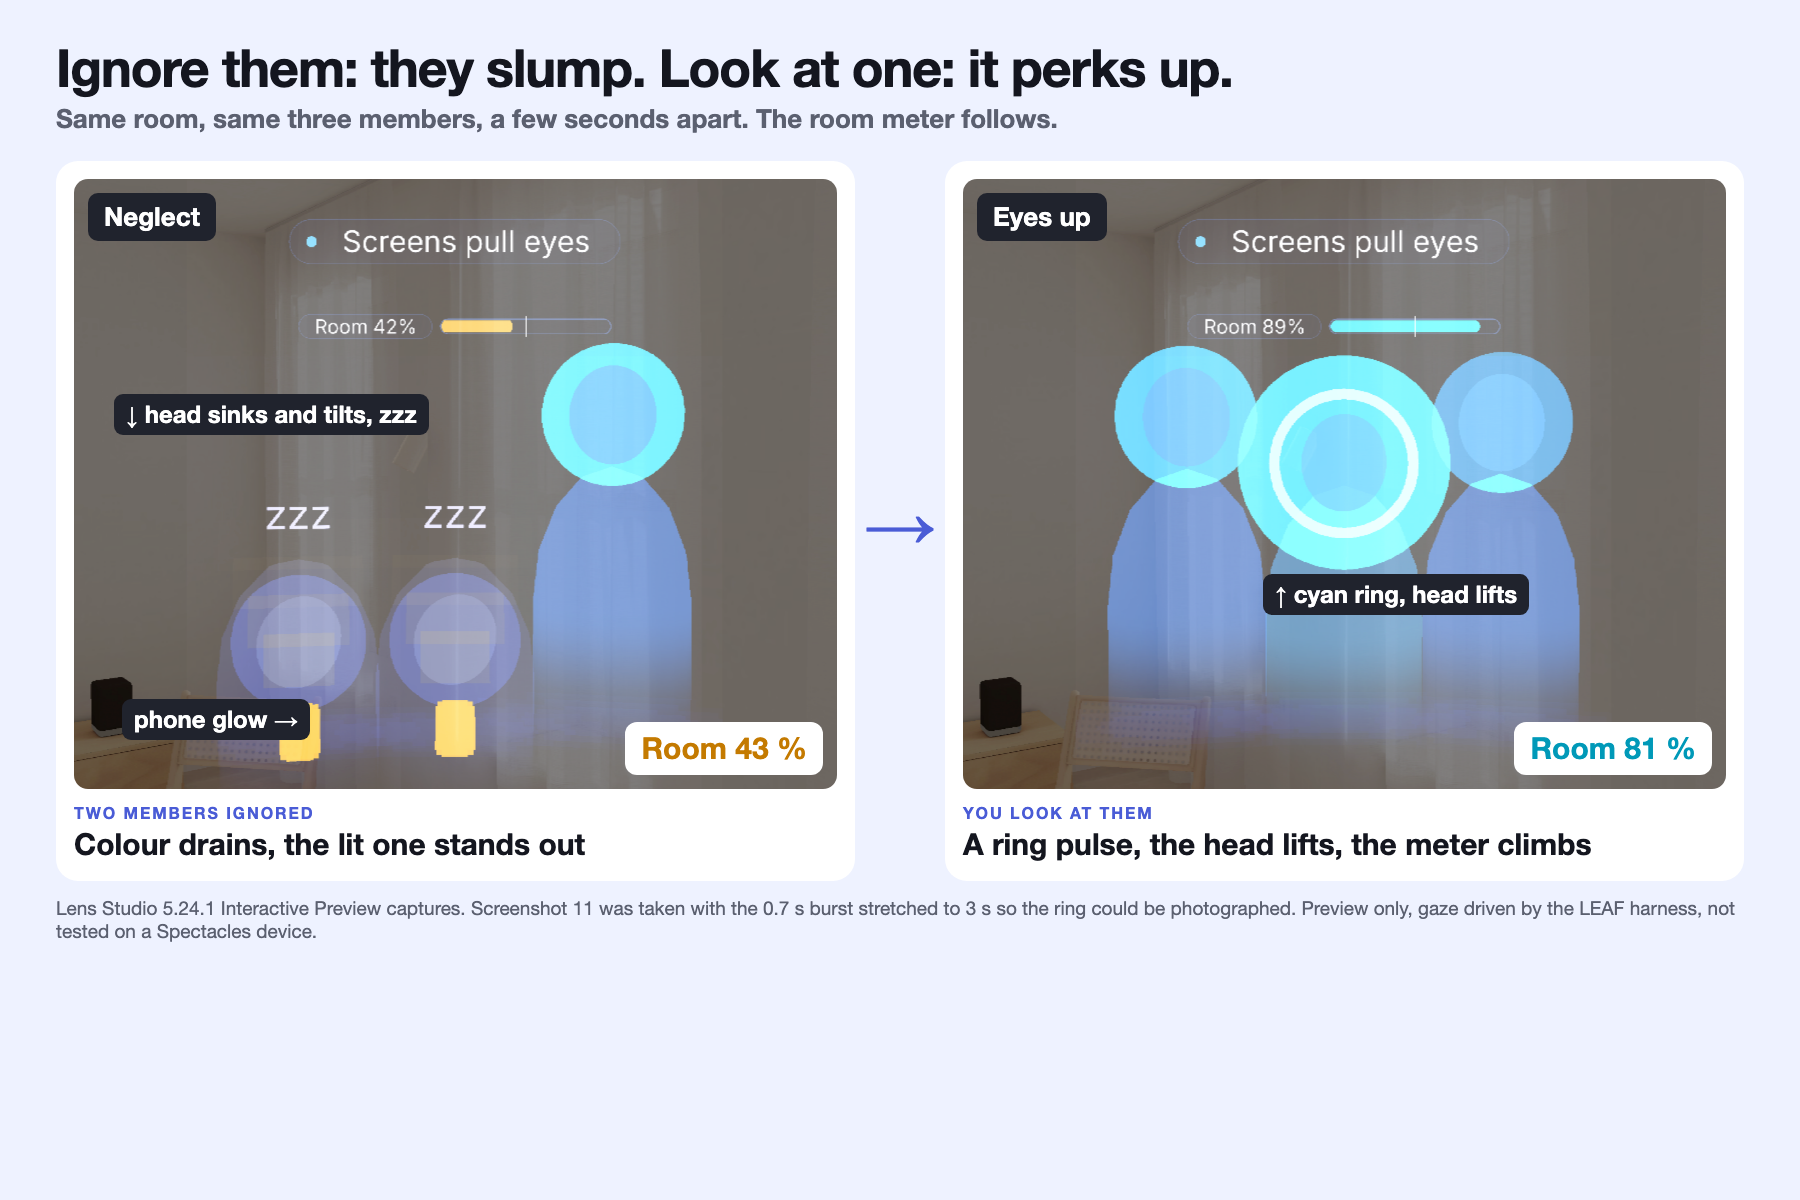
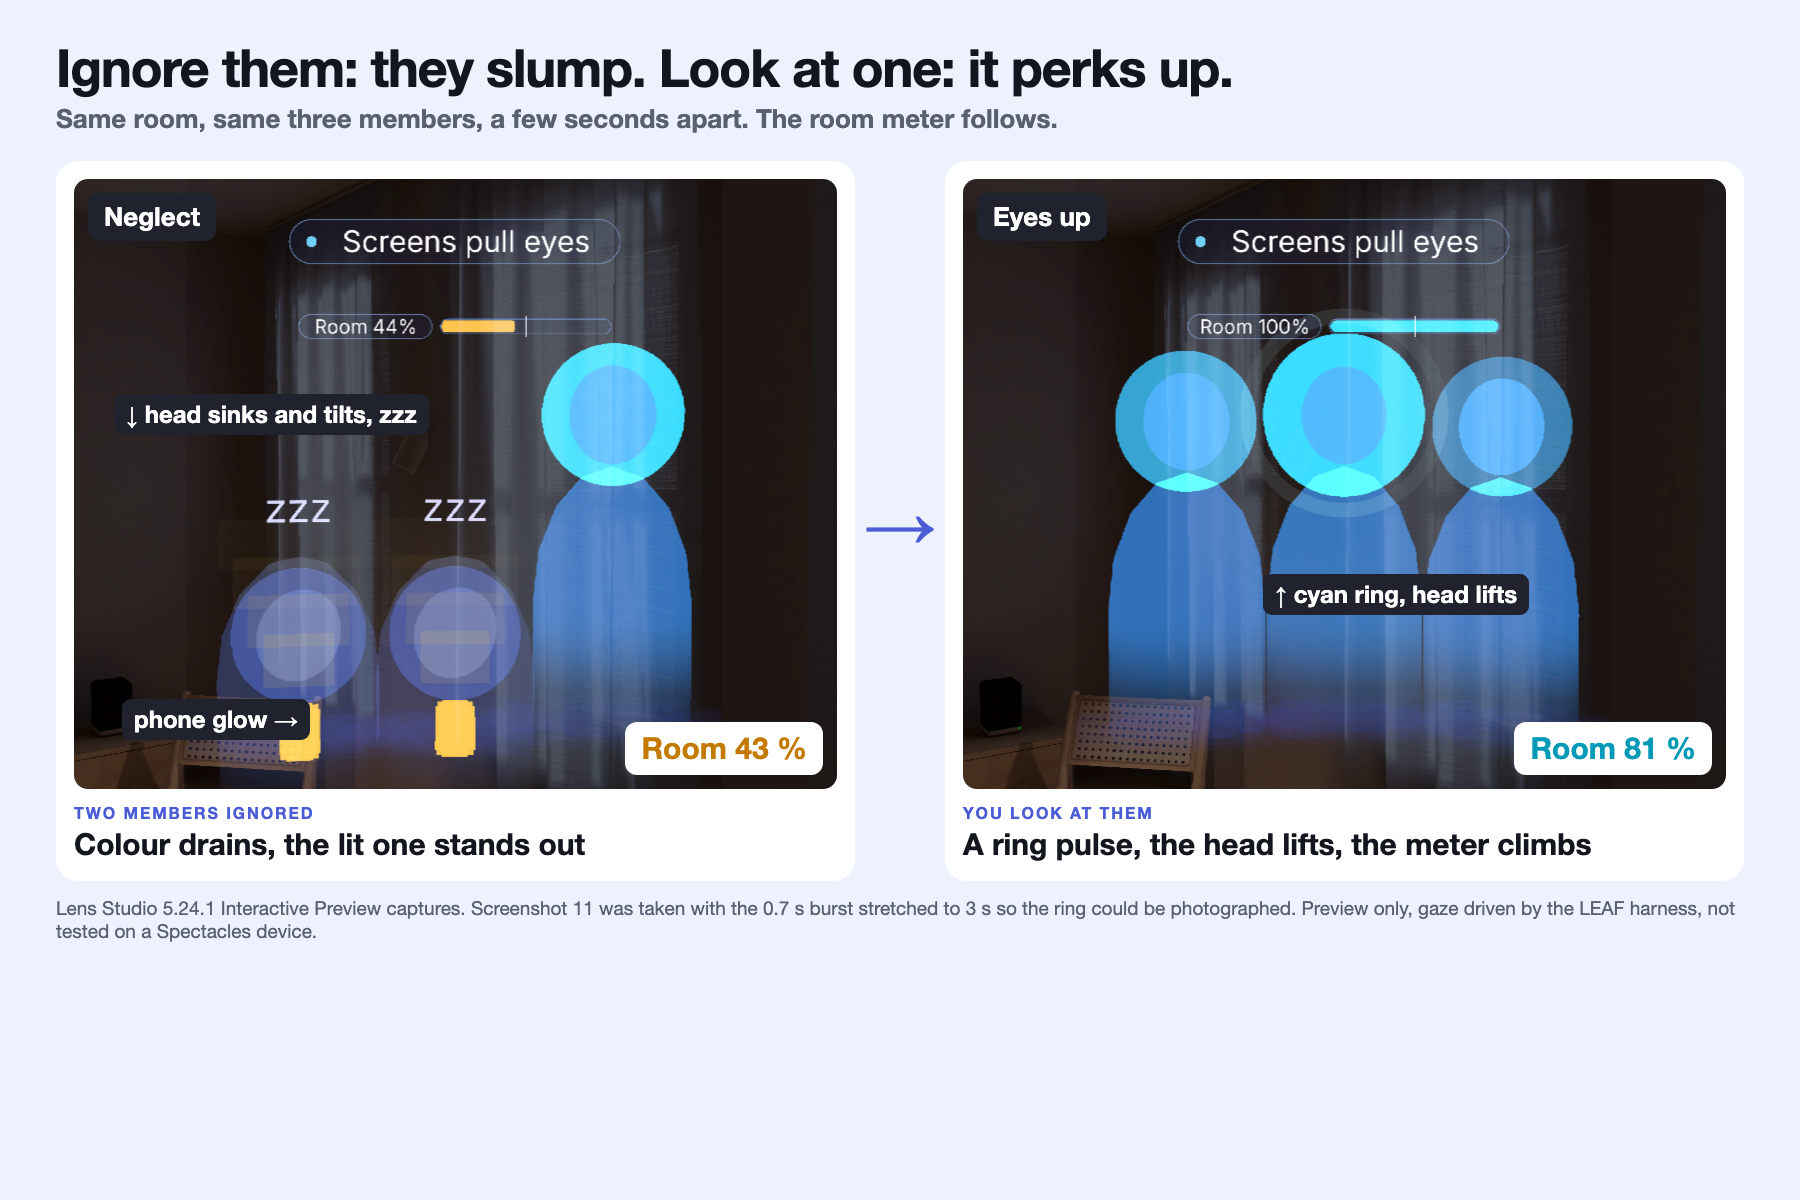
feat: design cycle 2 E1 - luminous dark panel material (#070D22 88 %, #9CC4FF stroke), cyan selected state, 35 % dimmer, Evening Room captures, 183 tests, 10 LEAF

diff --git a/Assets/Scripts/EyesUpUI.ts b/Assets/Scripts/EyesUpUI.ts
@@ -107,17 +107,26 @@ const ICONS: Record<IconName, Texture> = {
  * stroke at 35 %, continuous rounded corners. Setup, cue card, pill, podium, Summary and the room
  * meter pill all use it. The previous blue-grey fill washed out to lavender on the additive display.
  */
-export const PANEL_FILL = new vec4(0x0b / 255, 0x12 / 255, 0x30 / 255, 0.78);
-export const PANEL_STROKE = new vec4(0x7f / 255, 0xb0 / 255, 1, 0.35);
+export const PANEL_FILL = new vec4(0x07 / 255, 0x0d / 255, 0x22 / 255, 0.88);
+export const PANEL_STROKE = new vec4(0x9c / 255, 0xc4 / 255, 1, 0.55);
 export const PANEL_RADIUS_CM = 1.6;
-export const PANEL_STROKE_CM = 0.18;
+export const PANEL_STROKE_CM = 0.24;
+/** Cycle 2 (E1): the 35 % black dimmer behind every panel and the audience (Preview only; additive glasses draw nothing for black). */
+export const DIMMER_COLOR = new vec4(0, 0, 0, 0.35);
+const BUTTON_STROKE_CM = 0.18;
+const DIMMER_MARGIN_CM = 12;
 const SURFACE_FILL = PANEL_FILL;
 const SURFACE_BORDER = PANEL_STROKE;
 /** Button faces: brighter blue-grey than the surface, with a light frame. */
-const BUTTON_FACE = new vec4(0.12, 0.2, 0.44, 0.95);
+const BUTTON_FACE = new vec4(0x10 / 255, 0x1a / 255, 0x3a / 255, 0.95);
 const BUTTON_FACE_HOVER = new vec4(0.2, 0.32, 0.62, 1);
 const BUTTON_FACE_PRESS = new vec4(0.3, 0.46, 0.82, 1);
-const BUTTON_BORDER = new vec4(0.5, 0.69, 1, 0.85);
+const BUTTON_BORDER = new vec4(0x5e / 255, 0x86 / 255, 0xd6 / 255, 1);
+/** Cycle 2 (E1): selected segment = deep teal face, cyan 2 px stroke, cyan glow. */
+const SELECTED_FACE = new vec4(0x12 / 255, 0x32 / 255, 0x4f / 255, 0.97);
+const SELECTED_HOVER = new vec4(0.1, 0.27, 0.42, 1);
+const SELECTED_PRESS = new vec4(0.14, 0.38, 0.56, 1);
+const SELECTED_BORDER = new vec4(0x5f / 255, 0xd4 / 255, 1, 1);
 /** Primary action (Start / Finish / Again): cyan-teal face. */
 const PRIMARY_FACE = new vec4(0.18, 0.5, 0.62, 0.95);
 const PRIMARY_FACE_HOVER = new vec4(0.25, 0.64, 0.78, 1);
@@ -284,10 +293,10 @@ const MINT_BORDER = new vec4(0.5, 1.0, 0.8, 0.95);
 
 type FaceSet = [vec4, vec4, vec4, vec4];
 /** Cycle 5 (R1): secondary buttons are outlines (dark face, light frame) so the one filled cyan button is the obvious next step. */
-const OUTLINE_FACE = new vec4(0.04, 0.07, 0.19, 0.9);
+const OUTLINE_FACE = new vec4(0x10 / 255, 0x1a / 255, 0x3a / 255, 0.92);
 const OUTLINE_FACE_HOVER = new vec4(0.14, 0.22, 0.46, 1);
 const OUTLINE_FACE_PRESS = new vec4(0.24, 0.36, 0.7, 1);
-const OUTLINE_BORDER = new vec4(0.5, 0.69, 1, 0.9);
+const OUTLINE_BORDER = new vec4(0x5e / 255, 0x86 / 255, 0xd6 / 255, 1);
 const FACES: Record<'normal' | 'primary' | 'amber' | 'mint' | 'outline', FaceSet> = {
   outline: [OUTLINE_FACE, OUTLINE_FACE_HOVER, OUTLINE_FACE_PRESS, OUTLINE_BORDER],
   normal: [BUTTON_FACE, BUTTON_FACE_HOVER, BUTTON_FACE_PRESS, BUTTON_BORDER],
@@ -298,7 +307,7 @@ const FACES: Record<'normal' | 'primary' | 'amber' | 'mint' | 'outline', FaceSet
 
 const BUTTON_RADIUS_CM = 1.1;
 /** Selected segments get a soft cyan glow ring around the face (D1: "optional cyan glow on the active element"). */
-const GLOW_COLOR = new vec4(0.35, 0.9, 1.0, 0.3);
+const GLOW_COLOR = new vec4(0.37, 0.83, 1.0, 0.4);
 
 /** Themes a button's face; returns `setSelected` (cyan face + frame + glow, artifact S1 segments). */
 function themeButton(button: Button, so: SceneObject, w: number, h: number, kind: keyof typeof FACES): (selected: boolean) => void {
@@ -306,7 +315,7 @@ function themeButton(button: Button, so: SceneObject, w: number, h: number, kind
   const border = FACES[kind][3];
   const radius = Math.min(BUTTON_RADIUS_CM, h / 2);
   const surfaceRoot = child(so, 'Surface', new vec3(0, 0, 0.02));
-  const surface = addRoundedSurface(surfaceRoot, w, h, 0, face, border, radius);
+  const surface = addRoundedSurface(surfaceRoot, w, h, 0, face, border, radius, BUTTON_STROKE_CM);
   const frame = surfaceRoot.getChild(1).getComponent('Component.RenderMeshVisual') as RenderMeshVisual;
   const glow = meshVisual(surfaceRoot, 'Glow', roundedRingMesh(w + 0.9, h + 0.9, radius + 0.45, 0.45), -0.02, GLOW_COLOR);
   glow.getSceneObject().enabled = false;
@@ -316,9 +325,10 @@ function themeButton(button: Button, so: SceneObject, w: number, h: number, kind
   button.onTriggerDown.add(() => set(press));
   button.onTriggerUp.add(() => set(hover));
   return (selected: boolean) => {
-    [face, hover, press] = FACES[selected ? 'primary' : kind];
+    if (selected) [face, hover, press] = [SELECTED_FACE, SELECTED_HOVER, SELECTED_PRESS];
+    else [face, hover, press] = FACES[kind];
     set(face);
-    frame.mainPass.baseColor = selected ? PRIMARY_BORDER : border;
+    frame.mainPass.baseColor = selected ? SELECTED_BORDER : border;
     glow.getSceneObject().enabled = selected;
   };
 }
@@ -369,6 +379,8 @@ export function makePanel(host: SceneObject, widthCm: number, heightCm: number, 
   const backPlate = root.createComponent(BackPlate.getTypeName()) as BackPlate;
   backPlate.style = 'dark';
   backPlate.size = new vec2(widthCm, heightCm);
+  const dim = addRoundedSurface(child(root, 'Dimmer', new vec3(0, 0, -0.4)), widthCm + 2 * DIMMER_MARGIN_CM, heightCm + 2 * DIMMER_MARGIN_CM, 0, DIMMER_COLOR, null, PANEL_RADIUS_CM + DIMMER_MARGIN_CM);
+  dim.setRenderOrder(-5);
   addRoundedSurface(root, widthCm, heightCm, 0, SURFACE_FILL, SURFACE_BORDER, PANEL_RADIUS_CM); // drawn before Content
 
   const content = child(root, 'Content', new vec3(0, 0, CONTENT_Z));

diff --git a/Assets/Scripts/EyesUpApp.ts b/Assets/Scripts/EyesUpApp.ts
@@ -34,7 +34,7 @@ import { PillRect } from './core/PillHit';
 import { ChevronBox, PlaneRect, placeChevron } from './core/ChevronPlacement';
 import { podiumState } from './core/PodiumModel';
 import { Vec3Like } from './core/math';
-import { ACCENT_CYAN, PANEL_FILL, addCircleRing, PANEL_STROKE, TEXT_LABEL, TEXT_PRIMARY, TEXT_SECONDARY, addDot, addIcon, addRoundedSurface, addSurface, child, faceTowards } from './EyesUpUI';
+import { ACCENT_CYAN, DIMMER_COLOR, PANEL_FILL, addCircleRing, PANEL_STROKE, TEXT_LABEL, TEXT_PRIMARY, TEXT_SECONDARY, addDot, addIcon, addRoundedSurface, addSurface, child, faceTowards } from './EyesUpUI';
 import { METER_HEIGHT_CM, METER_WIDTH_CM } from './RoomMeter';
 
 /**
@@ -144,7 +144,7 @@ const SCRIM_PAD_CM = 40;
 const SCRIM_HEIGHT_CM = 205;
 const SCRIM_CENTER_ABOVE_FLOOR_CM = 78;
 const SCRIM_CORNER_CM = 9;
-const SCRIM_COLOR = new vec4(0.03, 0.05, 0.16, 0.35);
+const SCRIM_COLOR = DIMMER_COLOR;
 /** Room meter extents about its centre (cm, local), from RoomMeter.ts: pill + gap + track, pill height. */
 const METER_HALF_W_CM = METER_WIDTH_CM / 2;
 const METER_HALF_H_CM = METER_HEIGHT_CM / 2;

diff --git a/devpost/build-notes.md b/devpost/build-notes.md
@@ -948,3 +948,9 @@ Visual design only; no logic or test changes (`npm run check`: 183 tests). Previ
 - **D9, nudge chevron.** Double chevron (7.6 cm icon) on a 11.2 cm backing disc with an amber hairline, caption "Look left" / "Look right", 1 Hz pulse (scale and alpha, unchanged logic), 3 s or until the player looks that way (unchanged). Limits: the preview viewport is only +-28.9 cm wide at the chevron's 100 cm plane, so the disc cannot sit further out than x = +-21.5 cm and the glyph itself is smaller than before (10 -> 7.6 cm) while the whole mark is larger (11.2 cm disc); placement margin 1 cm so it fits between the meter row and the "zzz".
 - **Captures.** 01 to 06, 06b, 10, 11 and walkthrough 01 to 08 retaken from live captures that were looked at; 00 hero, 09 process card, 10b and 14 rebuilt from them. 12 (run compare) and 13 (CLAD / MCP) are unchanged and still show the cycle-6 panel look.
 - **Known, not fixed.** The right chevron can sit on the lit right member's body edge in some frames (no free wall at +28 cm); Summary bars and timeline strips are still flat rectangles; the podium counters and Prev / Finish labels are still smaller than the Next label by design. Fine per-screen layout is left to later cycles.
+
+## Design cycle 2 (2026-11-05): E1 luminous dark material
+
+- **E1.** `EyesUpUI.ts`: `PANEL_FILL` #070D22 at 88 %, `PANEL_STROKE` #9CC4FF at 55 %, stroke 0.24 cm. Buttons: idle #101A3A / #5E86D6 (0.18 cm), selected #12324F / #5FD4FF (0.24 cm) with a stronger cyan glow ring (the selected state used the teal primary face before). `DIMMER_COLOR` black 35 % is used by `makePanel` (a rounded "Dimmer" plate 12 cm larger than the panel, render order -5) and by the audience scrim in `EyesUpApp.ts`. No tests reference the colours; 183 tests unchanged.
+- **Capture environment.** Preview scene switched to "Evening Room" through `PreviewPanelTool setConfig` (Interactive, SPECS 27, Front camera kept). Same canonical reset camera. Finding: in "Sunlit Room" the new fill looked the same as before (the Preview is additive), in "Evening Room" the panels read as dark luminous glass with a bright stroke and cyan selected state. This is a Preview-scene choice, not a device measurement.
+- **Captures.** 01 to 06, 06b, 10, 11, walkthrough 01 to 08 retaken (podium 05 with the camera pitched down as before), 00, 09, 10b, 14 rebuilt. All 10 LEAF scenarios PASSED after the change.

diff --git a/docs/spec-matrix.md b/docs/spec-matrix.md
@@ -271,3 +271,13 @@ Mockup deviations (artifact S1 to S5), kept because they read better on glasses:
 - S4 Card: 110 x 28.5 cm (artifact 50 x 18, cycle 5: 100 x 26), left-aligned with accent bar, counter and dots (artifact: centred title and bullets).
 - S5 Summary: rounded navy tiles and plate; Again leads with Heading, other buttons Body (artifact: one size).
 - Room meter has no outer plate; "Room NN%" sits in its own capsule left of the track (cycle 4 note: no plate can be darker than the wall in the Preview).
+
+## Design cycle 2 (2026-11-05): luminous dark material (E1)
+
+Verified in the Interactive Preview, Interactive scene "Evening Room" (the darkest of the six; "Sunlit Room" washed every panel to grey-lavender). `npm run check` 183/183, 10 of 10 LEAF PASSED.
+
+| id | screen | problem | change | status | evidence |
+|---|---|---|---|---|---|
+| E1 | all panels, buttons | panels read grey-lavender over a beige room, additive rule not met | `PANEL_FILL` #070D22 at 88 %, `PANEL_STROKE` #9CC4FF at 55 %, 0.24 cm (about 2 px). Idle button #101A3A with #5E86D6 0.18 cm stroke; selected segment #12324F with #5FD4FF 0.24 cm stroke and a 40 % cyan glow ring; 35 % black dimmer (`DIMMER_COLOR`) behind every panel (12 cm margin, `makePanel`) and behind the audience (the existing scrim, now pure black) | match, with 2 deviations | 01, 02, 03, 04, 05, 06, 10, 11 retaken |
+
+Deviations: (1) the dimmer is a plate behind each panel and the audience, not one full-screen plane, so it never covers the room outside the UI. (2) The Preview draws these quads like an additive display, so a dark fill only shows as much as the room behind it is dark; the real gain comes from the Evening Room capture. On glasses black is clear anyway, so the dimmer costs nothing there. The Primary / amber / mint action buttons keep their cycle-1 faces. Stills 12 (run compare) and 13 (CLAD / MCP) still show the earlier look.
